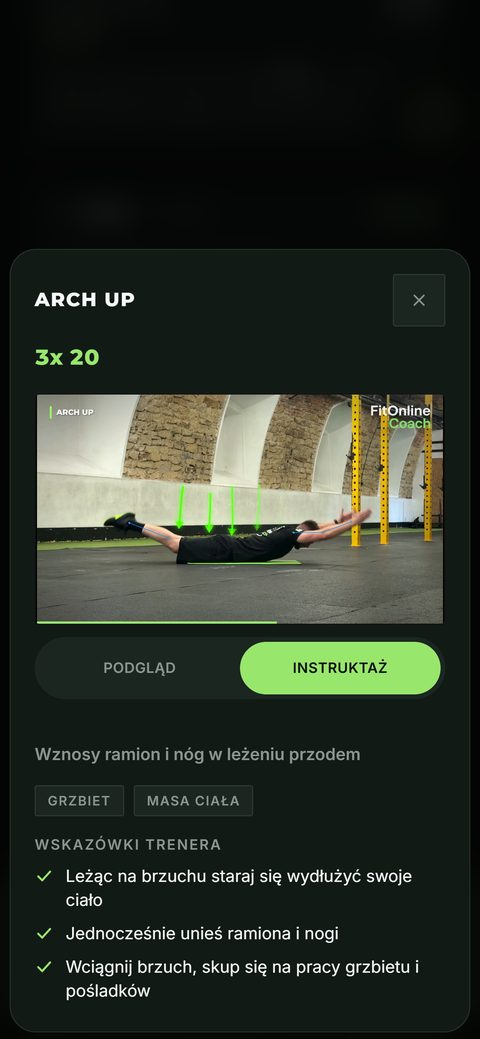
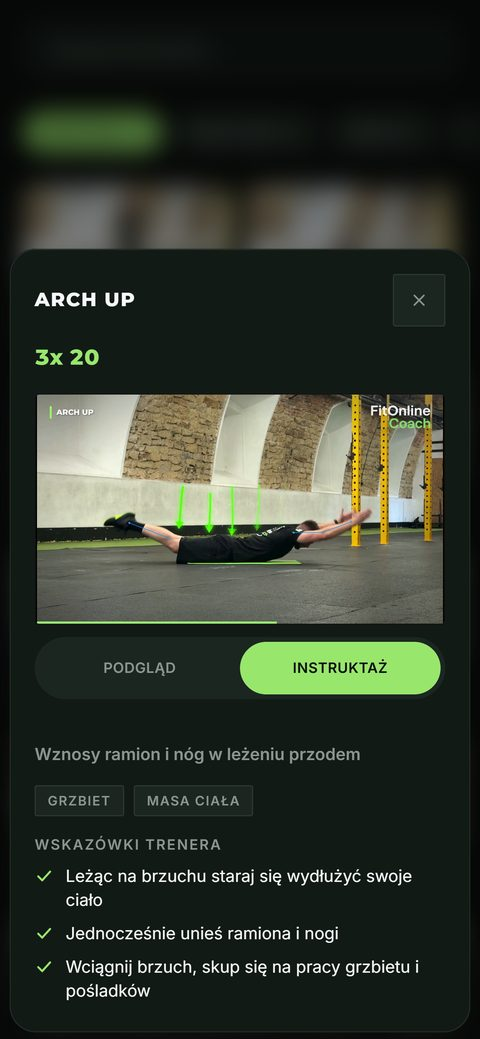
Strona za zaslona: Dlaczego slajd 2 - tytul 'Masz dosc angielskich tutoriali?' bez dzielenia slow, rozmyta biblioteka nad arch up
Zrodlo fitonlinecoach-v2 49f0fc5. Zgoda Tomka po podgladzie bylo/jest 343/288 ('Tak, wyslij', 27.10). Zaslona i noindex bez zmian.

Changed region(s): [[0.0312, 0.0924, 0.9688, 0.2464]]

diff --git a/index.html b/index.html
@@ -1793,9 +1793,8 @@
     #whyLayer .dl-scena{margin-top:0}
     /* minmax(0,…): najdłuższe słowo niewidocznego opisu („anglojęzycznych”) rozpychało kolumnę poza ekran */
     #whyLayer .wa-teksty{margin-top:0;grid-template-columns:minmax(0,1fr)}
-    /* &shy; w „anglo-języcznych”: wąska kolumna łamie z dywizem w miejscu sylaby, nie w środku słowa (hyphens:auto
-       nie zna polskiego w każdej przeglądarce) */
-    #whyLayer .wa-teksty h3{hyphens:auto;overflow-wrap:break-word}
+    /* słowa tytułów bez dzielenia (Tomek 27.10): najdłuższe słowo musi zmieścić się w kolumnie obok telefonu */
+    #whyLayer .wa-teksty h3{overflow-wrap:break-word}
     #whyLayer .wa-teksty h3{font-size:1.02rem;margin-bottom:8px}
     #whyLayer .wa-teksty p{font-size:.9rem;line-height:1.5}
     #whyLayer .wa-ster{justify-content:flex-start;margin-top:14px}
@@ -2207,7 +2206,7 @@
               <p>Każde ćwiczenie w planie ma swój poradnik wideo. Widzisz dokładnie, jak się ruszać — bez zgadywania, a dobra technika zmniejsza ryzyko kontuzji.</p>
             </div>
             <div class="dl-tresc">
-              <h3>Masz dość anglo&shy;języcznych tutoriali?</h3>
+              <h3>Masz dość angielskich tutoriali?</h3>
               <p>FitOnlineCoach mówi do Ciebie po polsku, w zrozumiały sposób. Fachowa wiedza — bez fachowego żargonu.</p>
             </div>
             <div class="dl-tresc">
